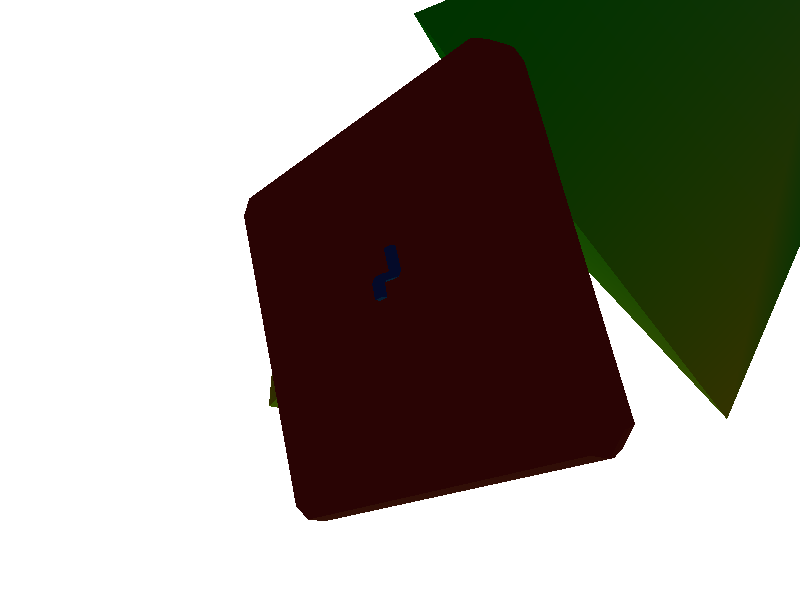
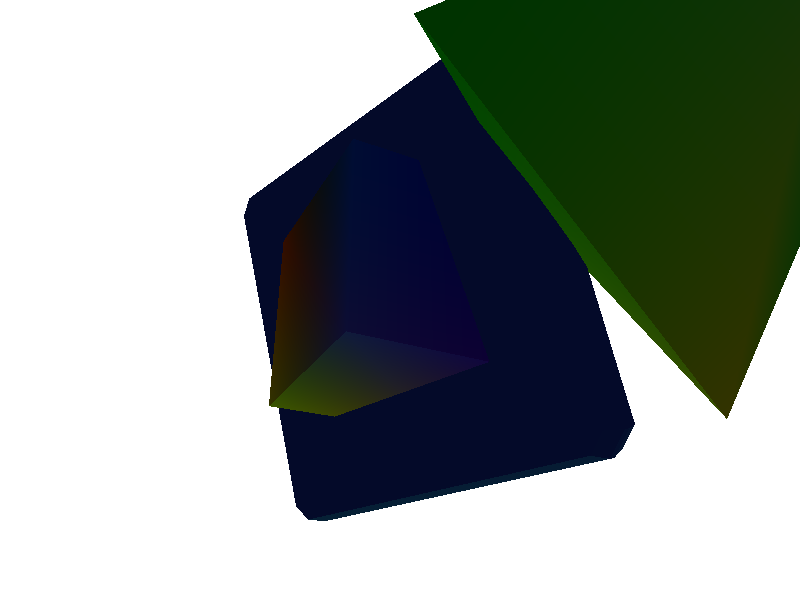
screen-13-cli-1 - WIP 11 - Add depth testing.

Changed region(s): [[0.2812, 0.06, 0.8125, 0.87]]

diff --git a/screen-13-cli-1/src/main.rs b/screen-13-cli-1/src/main.rs
@@ -339,6 +339,9 @@ fn main() -> Result<(), Box<dyn std::error::Error>> {
         render_graph
             .begin_pass("Render Cube")
             .bind_pipeline(&pipeline)
+            .set_depth_stencil(
+                DepthStencilMode::DEPTH_WRITE
+            )
             .access_node(cube_vertex_node, AccessType::VertexBuffer)
             .access_node(cube_index_node, AccessType::IndexBuffer)
             .access_node(pyramid_vertex_node, AccessType::VertexBuffer)
